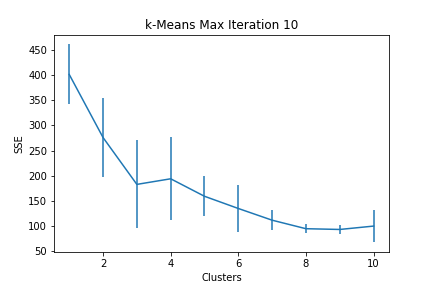
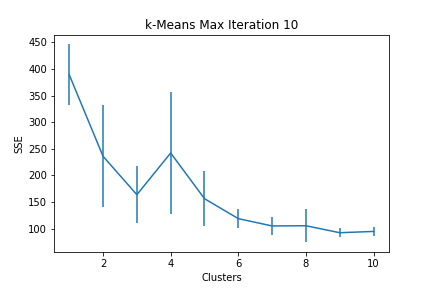
Done

diff --git a/CS171assn3.py b/CS171assn3.py
@@ -92,14 +92,16 @@ def k_means(df_Xinput, int_k,df_centroids):
   #this is a (data point x 1) vector 
   list_clustAssign=[]
   list_clustAssignPrev=[]
-  #Repeat until nothing is moved around, or some max iteration
+  initialdf=df_centroids.copy()
+  #Repeat until nothing is moved around
   while(True):
     list_clustAssign=assignClassification(df_centroids,df_Xinput)
-    if(list_clustAssign==list_clustAssignPrev):
+    if(list_clustAssign==list_clustAssignPrev and df_centroids.equals(initialdf)):
         break
     else:
       list_clustAssignPrev=list_clustAssign.copy()
-    df_centroids=getCentroid(df_centroids,df_Xinput,list_clustAssign)
+      initialdf=df_centroids.copy()
+      df_centroids=getCentroid(df_centroids,df_Xinput,list_clustAssign)
   return list_clustAssign
 
 #precondition: 
@@ -131,7 +133,7 @@ def computeSSE(df_centroids,df):
     
  df.sort_values("class", inplace=True)
  list_classranges=[]
- Gatherclasses(df,list_classranges)
+ Gatherclasses(df,list_classranges,4)
 
  Sum=0
  for everycluster in range(len(list_classranges)-1):
@@ -193,21 +195,63 @@ def kmeanspp(df_Xinput, K):
    tuple_nearestCenters.clear() 
  return df_centroids
 #precondition: df_Xinput is a shuffled feature matrix
-def sanityCheck(df_Xinput, numCentroids):
+def sanityCheck(data):
  
-
+ data = data.sample(frac=1).reset_index(drop=True)   #shuffle the data
+ df_Xinput = data.iloc[:,:-1].copy()   #feature matrix input 
+ Y_input= data.iloc[ :, -1:].copy() #class labels
+ 
+ list_tuple_dist=[]
  numRows=df_Xinput.shape[0] # get iteration size
- df_centroids = df_Xinput.iloc[0:numCentroids,:].copy() # initialze centroids
- list_clusterAssign=k_means(df_Xinput,numCentroids,df_centroids) #get cluster ASSGNM
- list_tuple_kdist=[]
- #for k in range(numCentroids):#for every centroid
+ df_centroids = df_Xinput.iloc[0:3,:].copy() # initialze centroids
+ list_clusterAssign=k_means(df_Xinput,3,df_centroids)#get cluster ASSGNM
+ 
  for row in range(numRows):  #for every data point
-    CentAddr= list_clusterAssign[row]# get centroid index for comparison
-    dist= minkowskiDist(list(df_centroids.iloc[CentAddr]),list(df_Xinput.iloc[row]),2)
-    #if(CentrAddr==0):
-    list_tuple_kdist(CentAddr,append([dist,row]))#save the dist to sort, row for return
-    #list_tuple_kdist.sort(key=operator.itemgetter(0))# sort for smallest dist
- #df.iloc[:,-1]=cAssign
+   CentAddr= list_clusterAssign[row]# get centroid index for comparison
+   dist= minkowskiDist(list(df_centroids.iloc[CentAddr]),list(df_Xinput.iloc[row]),2)
+   list_tuple_dist.append([dist,row,CentAddr])#save the dist to sort, row for return
+    #list_tuple_kdist.
+ list_tuple_dist.sort(key=operator.itemgetter(2))
+ df=pd.DataFrame(list_tuple_dist)
+ #----------slicing the three classes df->df_c# -> list_c# ------
+ list_classranges=[]
+ Gatherclasses(df,list_classranges,classPos=2)
+ 
+ df_c1= df.iloc[list_classranges[0]:list_classranges[1],:].copy()#slice df
+ list_c1= df_c1.apply(tuple, axis=1).tolist()#create list
+ list_c1.sort(key=operator.itemgetter(0))#sort
+ df_c1=pd.DataFrame(list_c1) #create df
+
+
+ df_c2= df.iloc[list_classranges[1]:list_classranges[2],:].copy()#slice df
+ list_c2= df_c2.apply(tuple, axis=1).tolist() #create list
+ list_c2.sort(key=operator.itemgetter(0)) #sort 
+ df_c2=pd.DataFrame(list_c2) #create df
+ 
+ df_c3= df.iloc[list_classranges[2]:list_classranges[3],:]
+ list_c3= df_c3.apply(tuple, axis=1).tolist()
+ list_c3.sort(key=operator.itemgetter(0)) #sort 
+ df_c3=pd.DataFrame(list_c3) #create df
+ #---------------------------------------------
+ Ys=Y_input.iloc[:,0]
+ #-----------------
+ list_c1labels=[]
+ list_c2labels=[]
+ list_c3labels=[]
+ for i in range(3):
+  r1=df_c1.iloc[i,1]
+  r2=df_c2.iloc[i,1]
+  r3=df_c3.iloc[i,1]
+  list_c1labels.append(Ys[r1]) #select index
+  list_c2labels.append(Ys[r2]) #select index
+  list_c3labels.append(Ys[r3]) #select index
+
+ print("cluster 1 labels:",list_c1labels)
+ print("\n")
+ print("cluster 2 labels:",list_c2labels)
+ print("\n")
+ print("cluster 3 labels:",list_c3labels)
+ print("\n")
  return
 
 def k_meansErrorBarsPlot(df_data,max_iter,method):
@@ -262,18 +306,11 @@ def k_meansErrorBarsPlot(df_data,max_iter,method):
  k_meansKneePlot(data)
  
   #----------- Question 2.2: Sensitivity analysis ----------    
- """repeat the knee plot of sub-question 1, but now, for each value
- of K you are going to run the algorithm for  max_iter times and record 
- the mean and standard deviation for the sum of squares of errors
- for a given K. Plot the new knee plot where now, instead of having 
- a single point for each K, you are going to have a single point 
- (the mean) with error-bars (defined by the standard deviation)"""
- """Create 3 such knee plots for max_iter = 2 ,max_iter = 10 ,max_iter = 100 ."""
+
  df_data=pd.read_csv('IrisDataSet.csv')  #import the data set
  k_meansErrorBarsPlot(df_data,max_iter=2,method="r")
  k_meansErrorBarsPlot(df_data,max_iter=10,method="r")
  k_meansErrorBarsPlot(df_data,max_iter=100,method="r")
- 
  
 #-----------  Question 3.1: K-Means++ Initialization  ----------
  data=pd.read_csv('IrisDataSet.csv')  #import the data set
@@ -281,9 +318,6 @@ def k_meansErrorBarsPlot(df_data,max_iter,method):
  K=4
  X_input = data.iloc[:,:-1].copy()
  centroidseed=kmeanspp(X_input, K)
-
-
-
 
 #-----------  Question 3.2: K-Means++ Initialization  ----------
 
@@ -293,51 +327,10 @@ def k_meansErrorBarsPlot(df_data,max_iter,method):
 
 #--------Question 4: Top data points per cluster----------------
  data=pd.read_csv('IrisDataSet.csv')  #import the data set
- data = data.sample(frac=1).reset_index(drop=True)   #shuffle the data
- df_Xinput = data.iloc[:,:-1].copy()   #feature matrix input 
- Y_input= data.iloc[ :, -1:].copy() #class labels
- listY=Y_input.values.T.tolist()
- yvalue=listY[0]
- item=yvalue[0]
- #list_list_x=[[]]*3
- #list_list_x[1].append(5)
- #list_list_x[0].append(5)
- list_tuple_dist=[]
- numRows=df_Xinput.shape[0] # get iteration size
- df_centroids = df_Xinput.iloc[0:3,:].copy() # initialze centroids
- list_clusterAssign=k_means(df_Xinput,3,df_centroids)#get cluster ASSGNM
+ sanityCheck(data)
  
- #for k in range(numCentroids):#for every centroid
- for row in range(numRows):  #for every data point
-   CentAddr= list_clusterAssign[row]# get centroid index for comparison
-   dist= minkowskiDist(list(df_centroids.iloc[CentAddr]),list(df_Xinput.iloc[row]),2)
-   list_tuple_dist.append([dist,row,CentAddr])#save the dist to sort, row for return
-    #list_tuple_kdist.
- list_tuple_dist.sort(key=operator.itemgetter(2))
- df=pd.DataFrame(list_tuple_dist)
- #----------slicing the three classes df->df_c# -> list_c# ------
- list_classranges=[]
- Gatherclasses(df,list_classranges,classPos=2)
  
- classc1=[]
- classc2=[]
- classc3=[]
- 
- df_c1= df.iloc[list_classranges[0]:list_classranges[1],:]
- list_c1= df_c1.apply(tuple, axis=1).tolist()
- list_c1.sort(key=operator.itemgetter(0))
- df_c1=pd.DataFrame(list_c1)
- r=df_c1.iloc[0,1]
- v=Y_input.iloc[:,r]
- for i in range(3):
-   addr=df_c1.iloc[0,1]
-   classc1.append( Y_input[addr])  
- df_c2= df.iloc[list_classranges[1]:list_classranges[2],:]
- list_c2= df_c2.apply(tuple, axis=1).tolist()
- 
- df_c3= df.iloc[list_classranges[2]:list_classranges[3],:]
- list_c3= df_c3.apply(tuple, axis=1).tolist()
- #----------sort by distance-------
+
 
 
 
